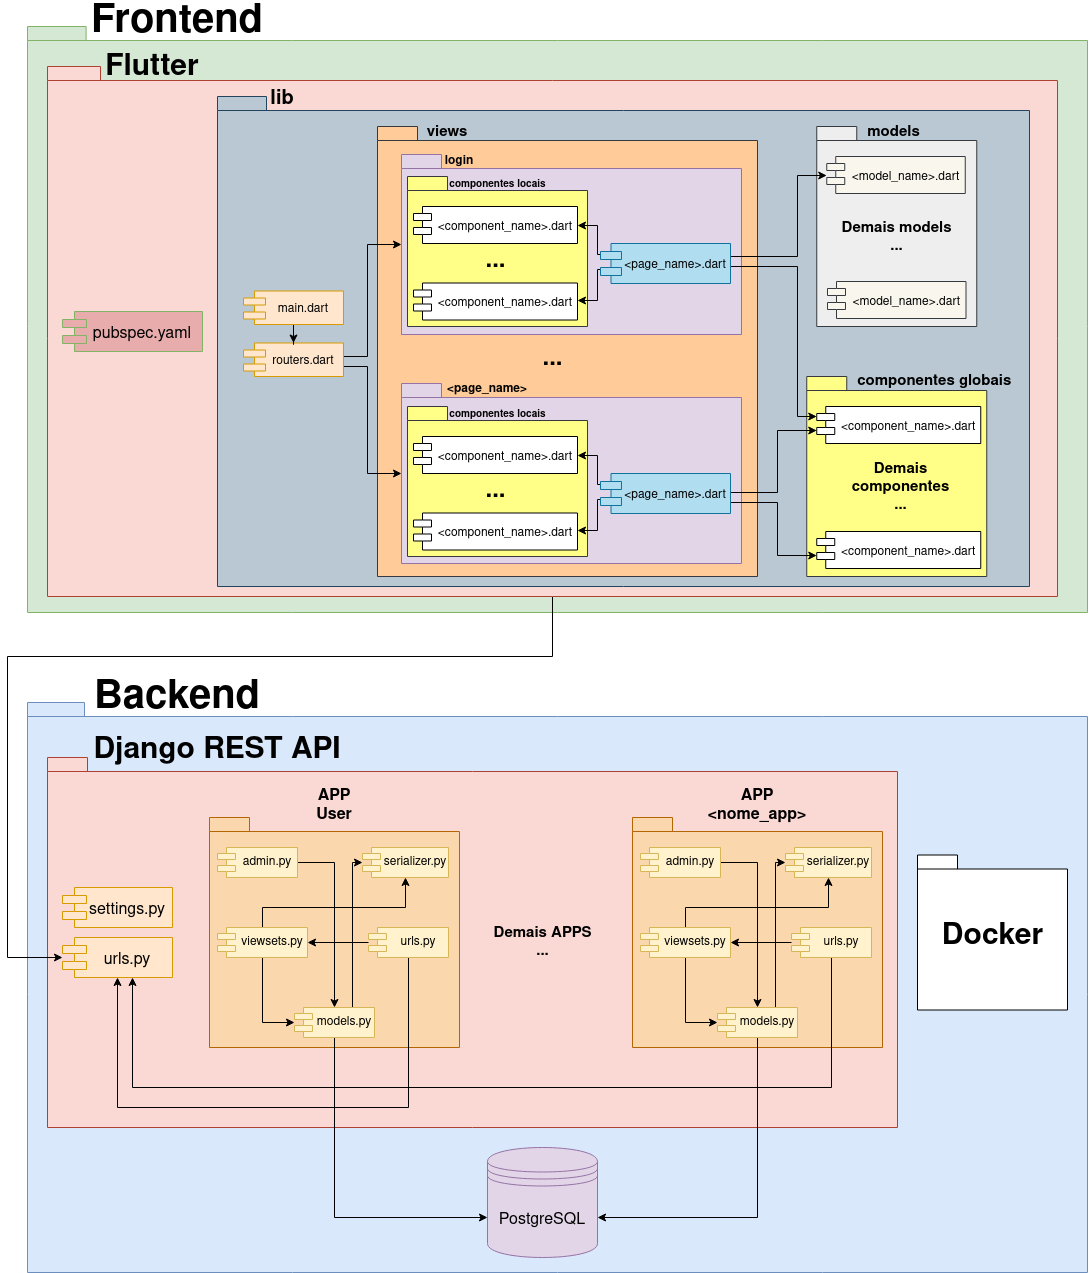
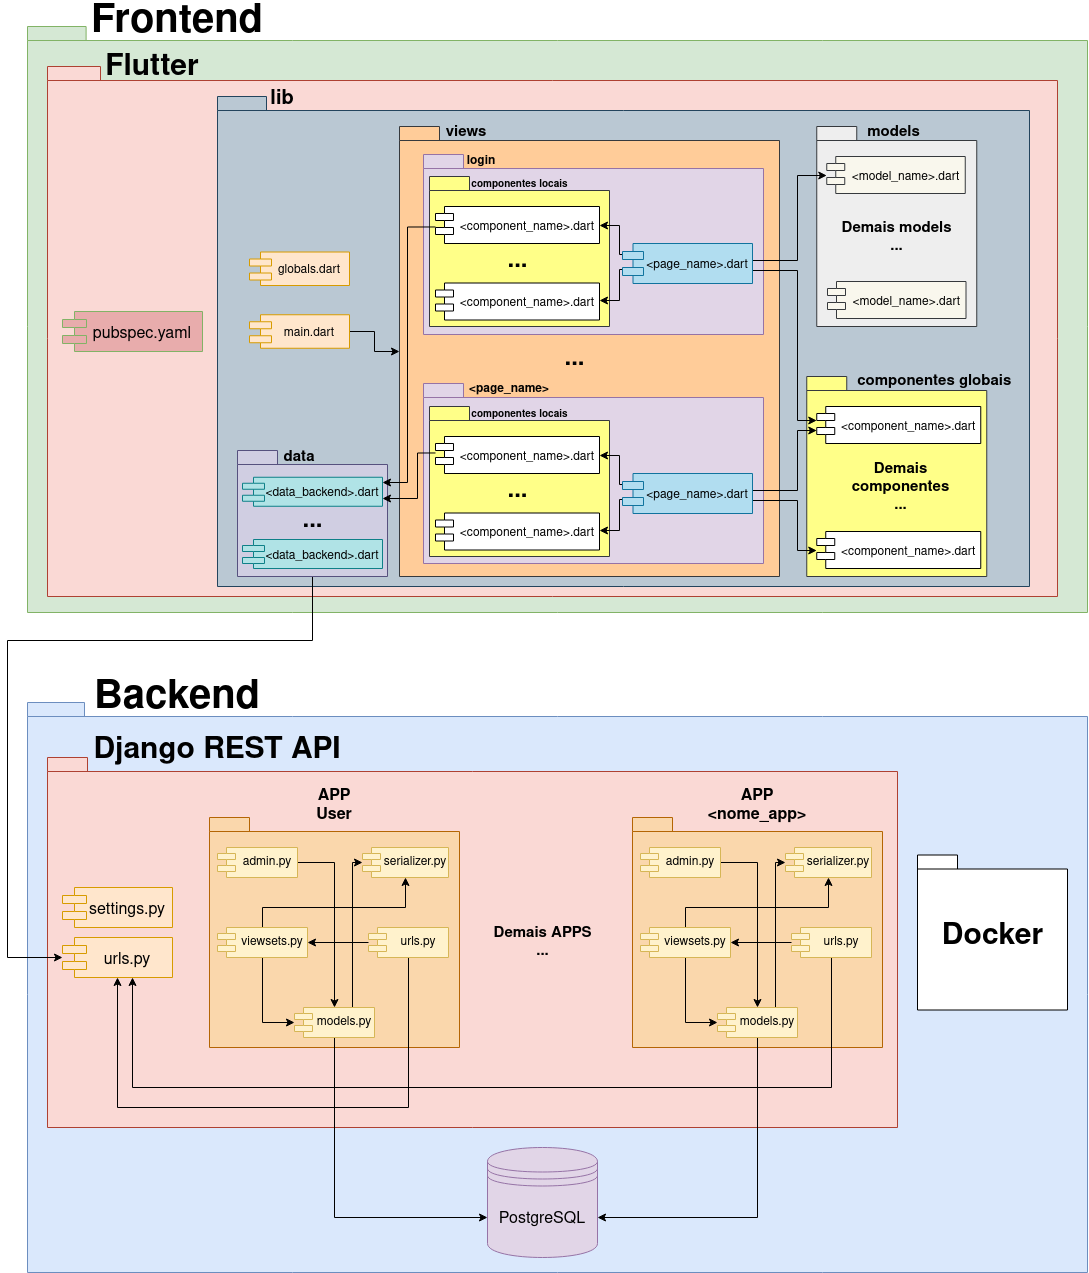
#127 Corregindo documento de pastas da arquitetura

Changed region(s): [[0.2185, 0.0919, 0.7181, 0.4595], [0.4683, 0.9497, 0.5308, 0.9804]]

diff --git a/docs/Documento_de_arquitetura.md b/docs/Documento_de_arquitetura.md
@@ -14,7 +14,8 @@ Data|Versão|Descrição|Autor
 08/03/2021|1.5|Adição do tópico "Visão de Casos de Uso"|Brenno e Matheus
 09/03/2021|1.6|Adição do tópico 5|Carlos Eduardo e Lucas
 13/03/2021|1.6.1|Correção de erros na digitação|Lucas Braun
-24/03/2021|1.7|Adição do tópico 6 e mudanças nos diagramas| Brenno, Carlos e João
+24/03/2021|1.7|Adição do tópico 6 e mudanças nos diagramas|Brenno, Carlos e João
+28/03/2021|1.7.1|Correção do diagrama de pacotes|João
 
 ## 1. Introdução
 
@@ -180,10 +181,10 @@ Essa resposta será obtida pelo Flutter, que com os dados recebidos irá disponi
         - **pubspec.yaml**: é um arquivo transversal a todos os aplicativos e pacotes, onde são adicionados metadados ao projeto, estipulados restrições do SDK do Dart e Flutter, gerenciamento das dependências e configurações do Flutter.
         - **lib**: diretório onde são inseridos todos os pacotes da aplicação.
             - **main.dart**: arquivo inicial da aplicação, onde o programa se inicia e termina.
-            - **routers.dart**: arquivo que contém as rotas da aplicação.
-            - **views**: diretório onde se encontra as páginas/telas da aplicação.
-            - **models**: diretório onde se encontra as models da aplicação.
-            - **componentes globais/data**: diretório onde são usados componentes globais, como por exemplo API para requisição web.
+            - **data/**: diretório que contem arqivos com requisição à API/backend.
+            - **views/**: diretório onde se encontra as páginas/telas da aplicação.
+            - **models/**: diretório onde se encontra as models globais da aplicação.
+            - **componentes globais/locais**: diretório onde são armazenados os componentes utilizados nas views.
 
 - **Backend**
     - **Django REST API**: framework para criação de API's Web.
@@ -192,7 +193,6 @@ Essa resposta será obtida pelo Flutter, que com os dados recebidos irá disponi
         - **app**: diretório constituído de models, viewsets, testes, urls, serializers e admin.
             - **models**: arquivo de models do app.
             - **viewsets**: arquivo de views do app.
-            - **testes**: arquivo de testes referente ao app.
             - **urls**: mapeia as views com template de cada app.
             - **serializer**: serialização das entidades do app.
             - **admin**: arquivo de conexão do app com o admin.
